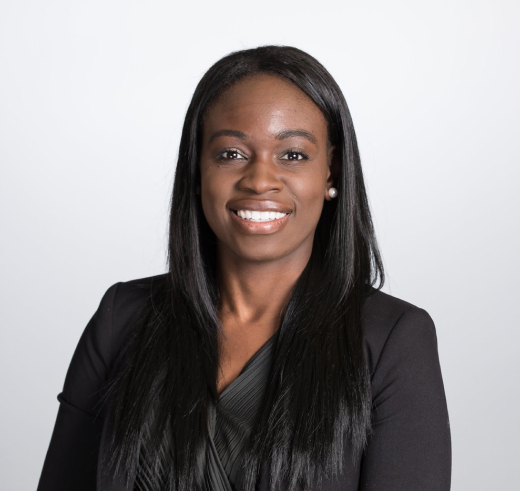
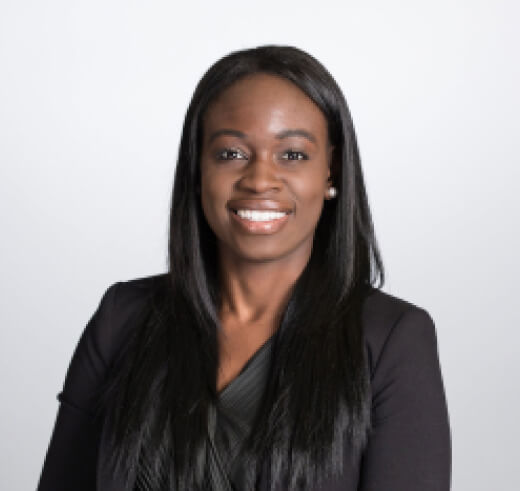
added update

diff --git a/src/components/Banner.js b/src/components/Banner.js
@@ -5,7 +5,7 @@ import styled from 'styled-components'
 // images
 import banner from '../assets/img/bannerBackground.jpg';
 import ama from '../assets/img/ama.svg';
-import character from '../assets/img/character.jpeg';
+import character from '../assets/img/bannerCharacter.jpg';
 
 const Banner = () => {
     return (
@@ -15,8 +15,9 @@ const Banner = () => {
                 <div className='cont'>
                     <img src={character} className="characterMobile" alt="character" />
                     <div className="details mobile">
-                        <h4>Tosin Onibon-oje</h4>
+                        <h4>Tobi Adesanya</h4>
                         <p>Snr Product Manager</p>
+                        <p>Jetstream Africa Accra Ghana</p>
                     </div>
                 </div>
             </div>
@@ -27,8 +28,9 @@ const Banner = () => {
             <div className="cont">
                 <img src={character} className="characterWeb" alt="character" />
                 <div className="details web">
-                    <h4>Tosin Onibon-oje</h4>
+                    <h4>Tobi Adesanya</h4>
                     <p>Snr Product Manager</p>
+                    <p>Jetstream Africa Accra Ghana</p>
                 </div>
             </div>
             {/* <Link to="/register">Register here</Link> */}
